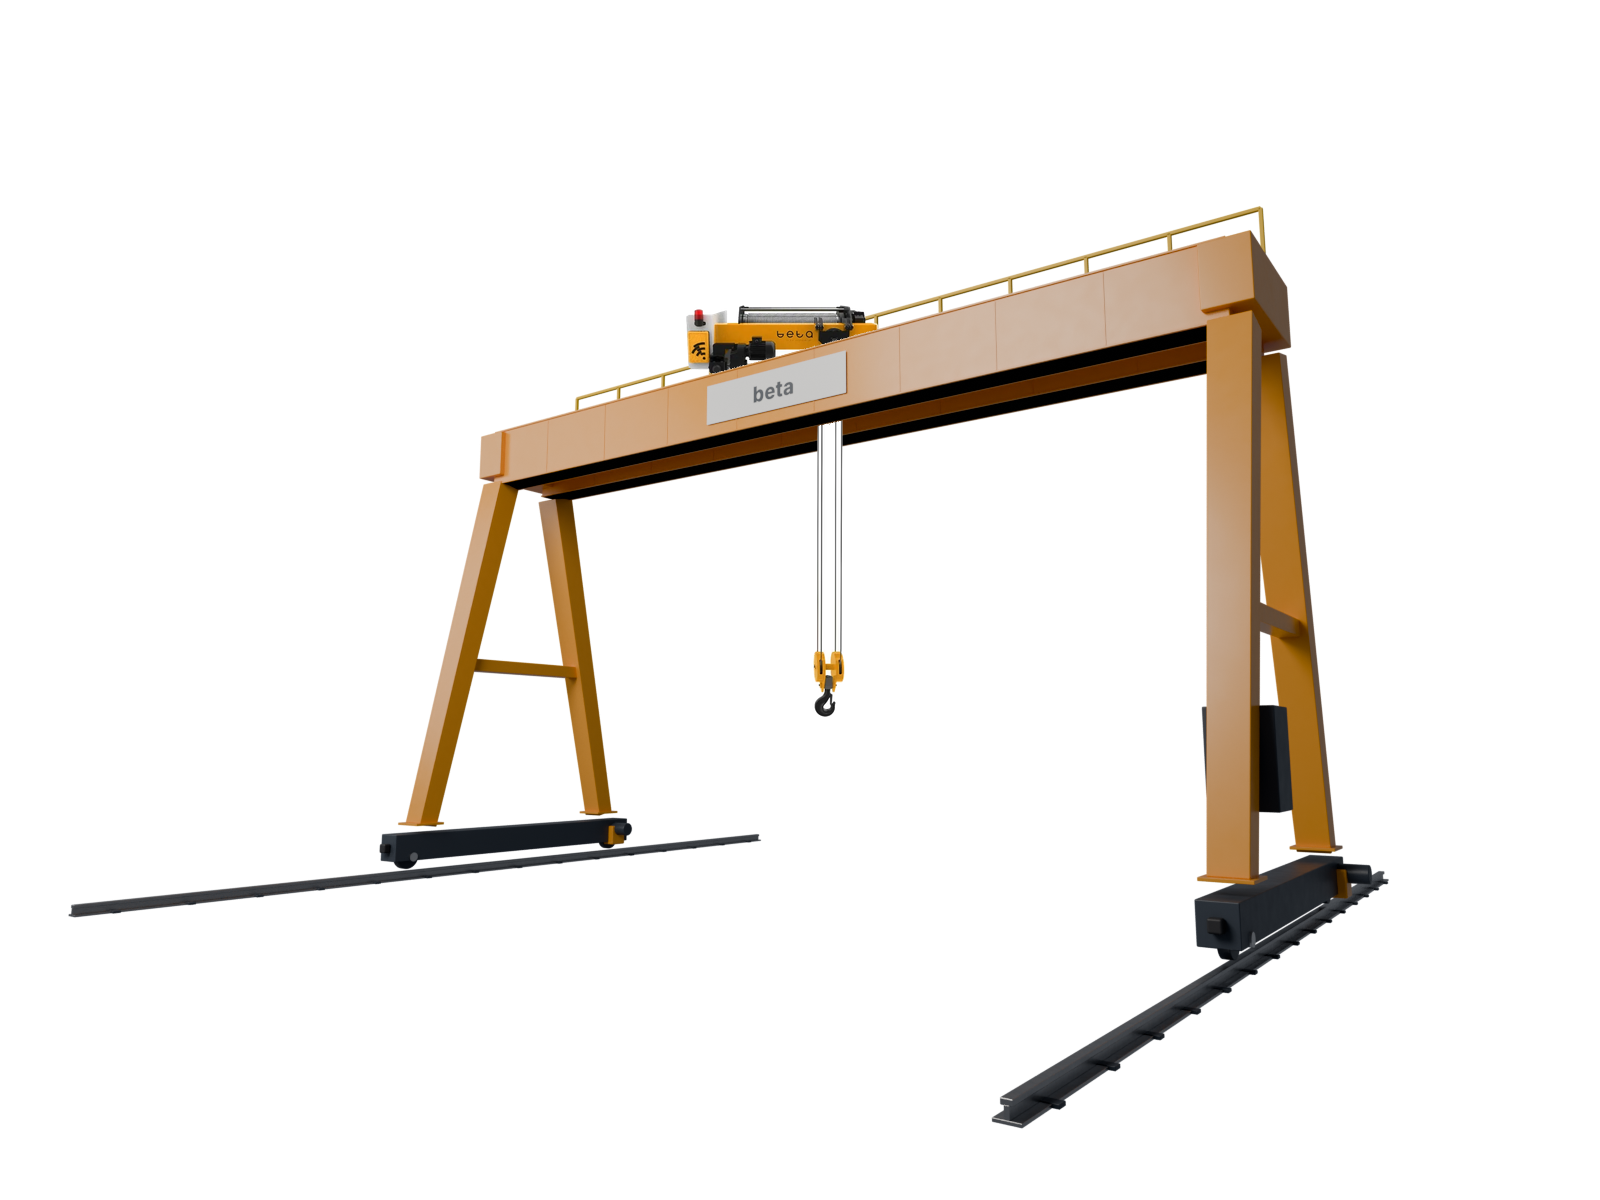
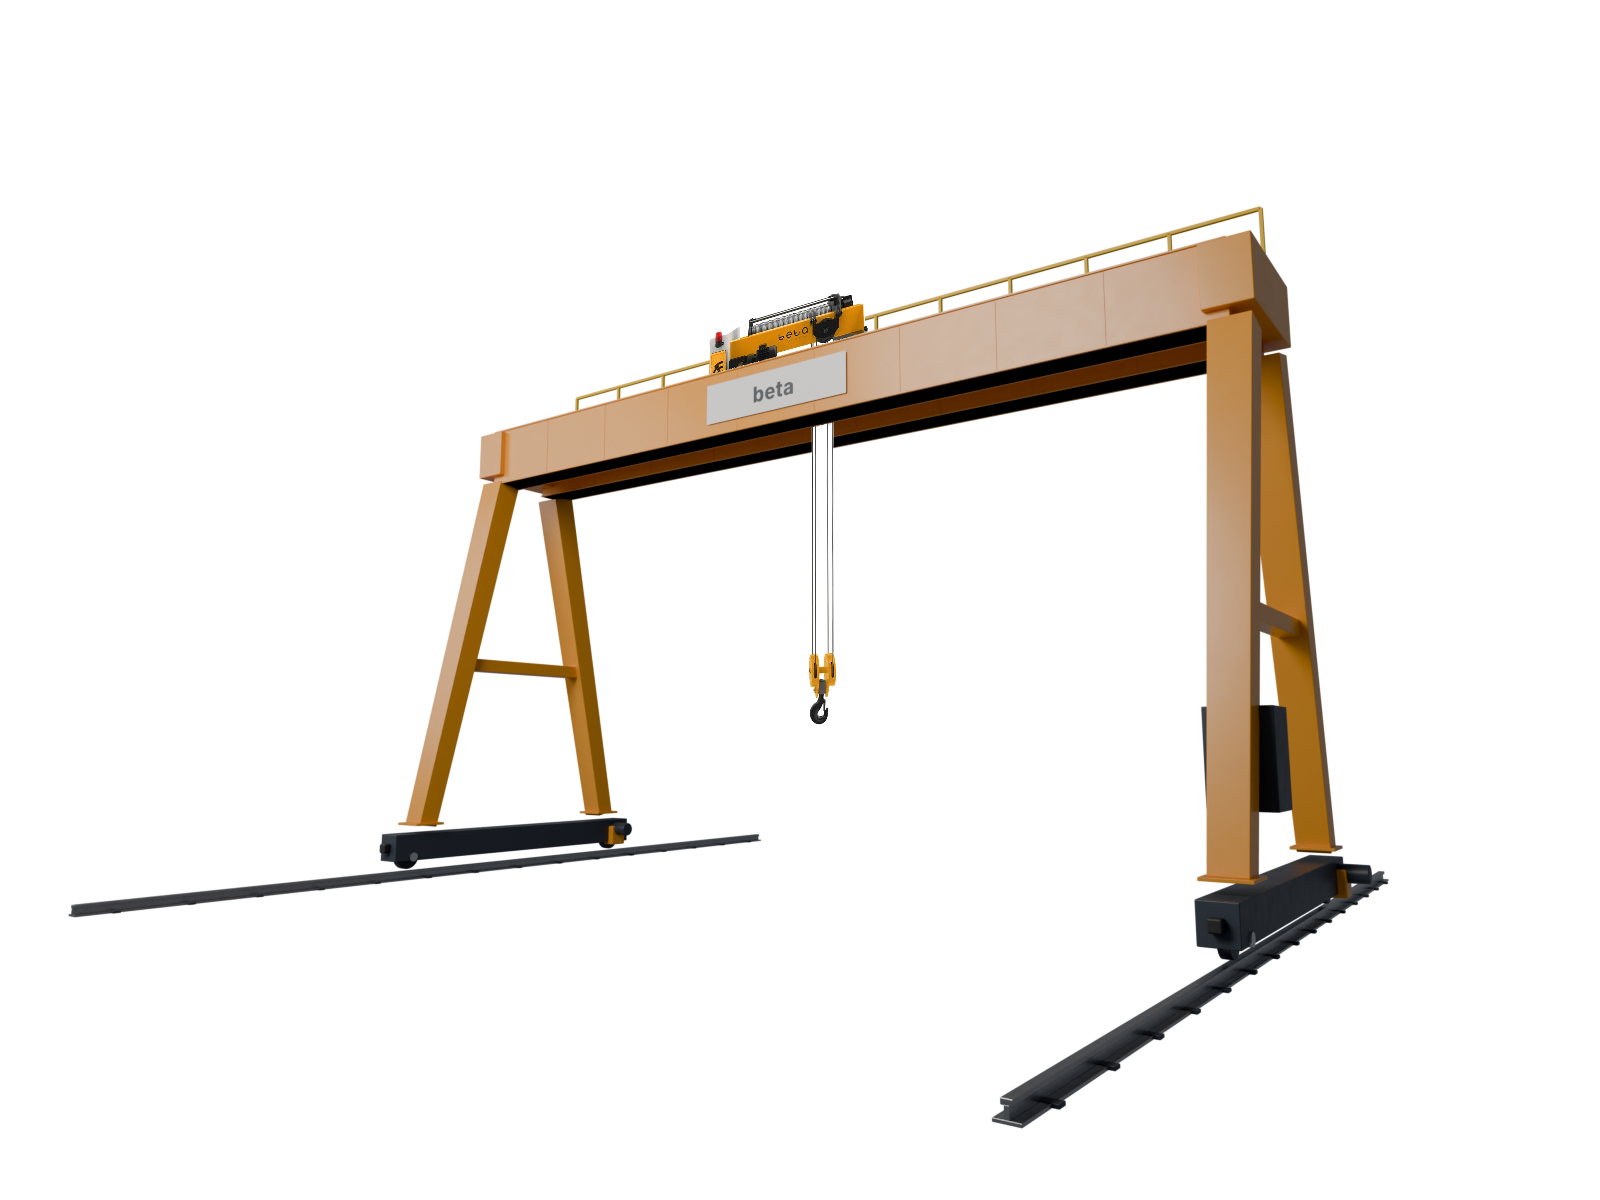
Vinç fotoğrafları sahne perspektifine homografi ile oturtuldu
Claude-Session: https://claude.ai/code/session_01BwJWWo6Yo4AefWjfCSnerb

Changed region(s): [[0.5, 0.3392, 0.5312, 0.6167], [0.4062, 0.2467, 0.5625, 0.3083]]

diff --git a/kaynak/render_vincler.py b/kaynak/render_vincler.py
@@ -574,16 +574,31 @@ def ortam(M, **kw):
     return None  # zemin yok: düz beyaz arka plan, gölge yok
 
 
-def foto_vinc(dosya, nesne, nokta, yukseklik, capa=0.5, dikey=0.0, arkasinda=(), halat=None):
-    """Gerçek ürün fotoğrafını render sonrası ekle.
+def foto_vinc(dosya, nesne, nokta, yukseklik, capa=0.5, dikey=0.0, arkasinda=(), halat=None,
+              eksen=(1, 0, 0)):
+    """Gerçek ürün fotoğrafını sahnedeki bir düzleme perspektifli olarak yerleştir.
 
-    nokta: fotoğrafın `dikey` oranındaki yüksekliğe denk gelen 3B nokta (0 = üst kenar),
+    Fotoğraf, `nesne` yerel koordinatlarında `eksen` (yatay) ve Z (düşey) doğrultularının
+    oluşturduğu düzleme gerçek ölçüsünde (yükseklik m) oturtulur; dört köşesi kameraya
+    izdüşürülüp homografi ile bükülür.
+    nokta: fotoğrafın yatayda `capa`, düşeyde `dikey` oranına (0 = üst kenar) denk gelen nokta,
     arkasinda: fotoğrafın önünde kalacak nesnelerin ad önekleri (ör. ön kiriş),
-    halat: (ust_oran, alt_oran, kanca_z) - fotoğraftaki yalnız halat bandını dikey uzatıp
-           kancayı kanca_z yüksekliğine indirir.
+    halat: (ust_oran, alt_oran, kanca_z) - yalnız halat bandını uzatıp kancayı kanca_z'ye indirir.
     """
     FOTOLAR.append((os.path.join(FOTO_KLASOR, dosya), nesne, Vector(nokta), yukseklik, capa, dikey,
-                    tuple(arkasinda), halat))
+                    tuple(arkasinda), halat, Vector(eksen).normalized()))
+
+
+def _homografi(hedef, kaynak):
+    """PIL PERSPECTIVE katsayıları: çıktı (hedef) noktası -> girdi (kaynak) noktası."""
+    import numpy as np
+
+    A, B = [], []
+    for (x, y), (u, v) in zip(hedef, kaynak):
+        A.append([x, y, 1, 0, 0, 0, -u * x, -u * y])
+        A.append([0, 0, 0, x, y, 1, -v * x, -v * y])
+        B += [u, v]
+    return np.linalg.solve(np.array(A, float), np.array(B, float)).tolist()
 
 
 def maske_render(onekler, yol):
@@ -618,31 +633,43 @@ def fotolari_ekle(cikti):
         zemin = Image.new("RGBA", img.size, (255, 255, 255, 255))
         img = Image.alpha_composite(zemin, img)
     taban = img.copy()
+
+    def ekran(p):
+        q = world_to_camera_view(sc, sc.camera, p)
+        return (q.x * W, (1 - q.y) * H)
+
     yerlesim = []
-    for dosya, nesne, nokta, yuk, capa, dikey, arkasinda, halat in FOTOLAR:
-        ust = nesne.matrix_world @ nokta
-        alt = nesne.matrix_world @ (nokta - Vector((0, 0, yuk)))
-        pu = world_to_camera_view(sc, sc.camera, ust)
-        pa = world_to_camera_view(sc, sc.camera, alt)
-        hpx = (pu.y - pa.y) * H
+    for dosya, nesne, nokta, yuk, capa, dikey, arkasinda, halat, eksen in FOTOLAR:
         foto = Image.open(dosya).convert("RGBA")
-        olcek = hpx / foto.height
-        foto = foto.resize((max(1, round(foto.width * olcek)), max(1, round(foto.height * olcek))), Image.LANCZOS)
-        x = round(pu.x * W - foto.width * capa)
-        y = round((1 - pu.y) * H - foto.height * dikey)
+        fw, fh = foto.size
+        gen = yuk * fw / fh
         if halat:
             r1, r2, kanca_z = halat
-            fw, fh = foto.size
             a, b = round(r1 * fh), round(r2 * fh)
-            kanca_alt = ust.z - (1 - dikey) * yuk
-            ek = max(0.0, kanca_alt - kanca_z) * hpx / yuk
-            orta = foto.crop((0, a, fw, b)).resize((fw, round(b - a + ek)), Image.BICUBIC)
+            kanca_alt = (nesne.matrix_world @ nokta).z - (1 - dikey) * yuk
+            ek_m = max(0.0, kanca_alt - kanca_z)
+            orta = foto.crop((0, a, fw, b)).resize((fw, round(b - a + ek_m * fh / yuk)), Image.BICUBIC)
             yeni = Image.new("RGBA", (fw, a + orta.height + fh - b), (0, 0, 0, 0))
             yeni.paste(foto.crop((0, 0, fw, a)), (0, 0))
             yeni.paste(orta, (0, a))
             yeni.paste(foto.crop((0, b, fw, fh)), (0, a + orta.height))
-            foto = yeni
-        yerlesim.append((foto, x, y, arkasinda))
+            ust_m = dikey * yuk
+            foto, fh = yeni, yeni.height
+            yuk = yuk + ek_m
+            dikey = ust_m / yuk
+        mw = nesne.matrix_world
+        z = Vector((0, 0, 1))
+
+        def kose(fx, fy, u=eksen):
+            return ekran(mw @ (nokta + u * ((fx - capa) * gen) + z * ((dikey - fy) * yuk)))
+
+        # fotoğraf ayna görüntüsü olmasın: sol kenar ekranda solda kalsın
+        if kose(0, dikey)[0] > kose(1, dikey)[0]:
+            eksen = -eksen
+        hedef = [kose(0, 0, eksen), kose(1, 0, eksen), kose(1, 1, eksen), kose(0, 1, eksen)]
+        katsayi = _homografi(hedef, [(0, 0), (fw, 0), (fw, fh), (0, fh)])
+        bukulmus = foto.transform((W, H), Image.PERSPECTIVE, katsayi, Image.BICUBIC)
+        yerlesim.append((bukulmus, 0, 0, arkasinda))
     for foto, x, y, _ in yerlesim:
         img.alpha_composite(foto, (x, y))
     onekler = tuple(sorted({o for *_, a in yerlesim for o in a}))
@@ -833,17 +860,18 @@ def portal_govde(M, g, span, z_ust, h, cift_ayak=True, ray_ust=0.0, kanca_z=1.6,
     kutu("yurume_yolu", (span, 0.55, 0.02), (span / 2, yk + 0.24 + 0.05, z_ust - 0.01), M["antrasit"], g, bevel=0.002)
     # ayaklar
     zl = z_ust - h
-    portal_ayak("ayak_sol", 0.0, 1.7, 0.55, 0.62, zl, M, g)
-    bas_araba("bas_sol", 0.0, -2.2, 2.2, M, g, z=ray_ust)
+    ya = max(1.7, yk + 0.9)
+    portal_ayak("ayak_sol", 0.0, ya, max(0.55, yk * 0.9), 0.62, zl, M, g)
+    bas_araba("bas_sol", 0.0, -ya - 0.5, ya + 0.5, M, g, z=ray_ust)
     if cift_ayak:
-        portal_ayak("ayak_sag", span, 1.7, 0.55, 0.62, zl, M, g)
-        bas_araba("bas_sag", span, -2.2, 2.2, M, g, z=ray_ust)
-        kutu("kumanda_kabin", (0.6, 0.5, 0.9), (span - 0.0, -1.0, 1.6), M["antrasit"], g, bevel=0.01)
+        portal_ayak("ayak_sag", span, ya, max(0.55, yk * 0.9), 0.62, zl, M, g)
+        bas_araba("bas_sag", span, -ya - 0.5, ya + 0.5, M, g, z=ray_ust)
+        kutu("kumanda_kabin", (0.6, 0.5, 0.9), (span - 0.0, -ya * 0.6, 1.6), M["antrasit"], g, bevel=0.01)
     if foto:
         # Beta halatlı vinç arabası fotoğrafı: kiriş raylarının üstünde, halatlar ön kirişin arkasında
         dosya, yuk, capa, dikey = foto
         foto_vinc(dosya, g, (span * 0.47, 0, z_ust + 0.05), yuk, capa=capa, dikey=dikey,
-                  arkasinda=("kiris_on",), halat=(0.45, 0.60, 2.1))
+                  arkasinda=("kiris_on",), halat=(0.45, 0.60, 2.1), eksen=(1, 0, 0))
     else:
         halatli_araba("araba", span * 0.47, z_ust + 0.05, yk, M, g, kanca_z=kanca_z)
 

diff --git a/README.md b/README.md
@@ -4,7 +4,8 @@ betavinc.com'daki düz (flat) vektör portal ve pergel vinç çizimleri, Blender
 ile fotoğraf gerçekliğinde, gölgesiz düz beyaz arka plan üzerinde render edildi. Marka renkleri ve "beta" logosu korundu.
 
 Vinçler modellenmedi; Beta'nın gerçek ürün fotoğrafları (`kaynak/vinc_foto/`,
-beyaz zemini temizlenmiş) bom / kiriş alt başlığına perspektife uygun konumda eklendi:
+beyaz zemini temizlenmiş) sahnedeki gerçek ölçülü bir düzleme oturtulup, köşeleri kameraya
+izdüşürülerek homografi ile perspektifli bükülüp eklendi (bom / kirişle aynı kaçış):
 
 - Duvar tipi pergel → 2 ton zincirli vinç (`zincirli_vinc_2ton.png`)
 - Kolon tipi pergel → kompakt vinç (`kompakt_vinc.png`)
